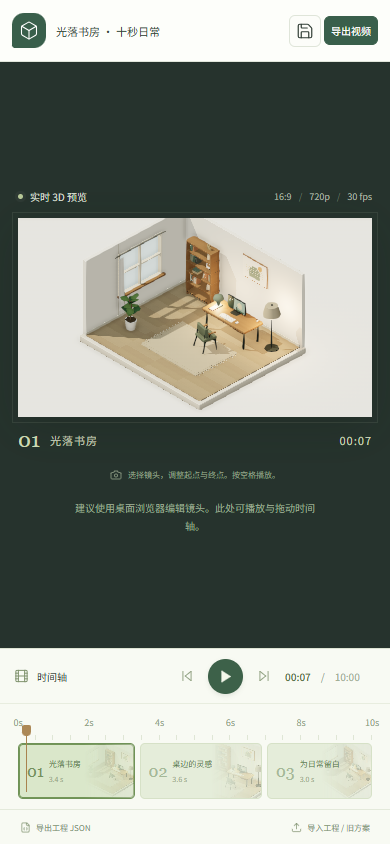
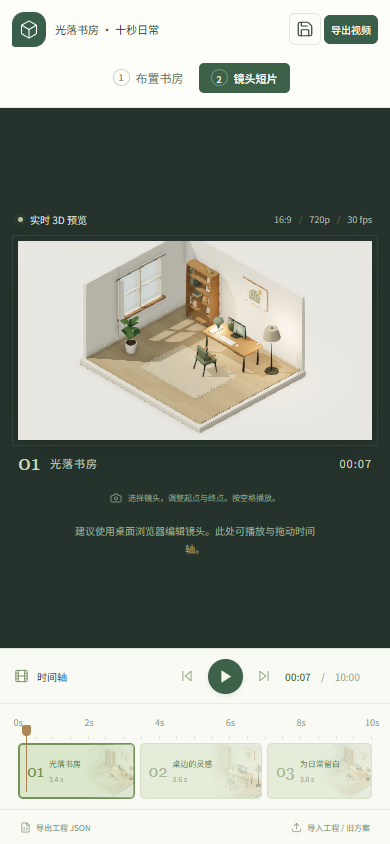
fix: make room and film navigation visible and save before returning

Changed region(s): [[0.0308, 0.2156, 0.9538, 0.5545], [0.0, 0.0, 1.0, 0.154], [0.1846, 0.5545, 0.8, 0.6777]]

diff --git a/tests/film.spec.ts b/tests/film.spec.ts
@@ -67,7 +67,7 @@ test('v1 迁移、非法工程保护、工程内房间编辑及旧存档隔离',
   await page.locator('#film-save').click();const p=await getProject(page),h=await history(page),stored=await page.evaluate(()=>localStorage.getItem('ideal-study.film.v2'));
   const invalid=['bad json',JSON.stringify({...p,version:99}),JSON.stringify({...p,film:{...p.film,shots:[]}}),JSON.stringify({...p,film:{...p.film,shots:p.film.shots.map((s:any,i:number)=>i===0?{...s,duration:0}:s)}}),JSON.stringify({...p,film:{...p.film,shots:p.film.shots.map((s:any,i:number)=>i===0?{...s,target:[0,99,0]}:s)}}),JSON.stringify({...p,film:{...p.film,shots:p.film.shots.map((s:any,i:number)=>i===0?{...s,start:{...s.start,azimuth:-180}}:s)}})];
   for(const data of invalid){await page.locator('#film-file').setInputFiles({name:'invalid.json',mimeType:'application/json',buffer:Buffer.from(data)});await expect(page.locator('#film-toast')).toHaveClass(/error/);expect(await getProject(page)).toEqual(p);expect(await history(page)).toEqual(h);expect(await page.evaluate(()=>localStorage.getItem('ideal-study.film.v2'))).toBe(stored);}
-  await page.getByRole('button',{name:'保存并布置房间',exact:true}).click();await expect(page.locator('html')).toHaveAttribute('data-ready','true');await page.getByRole('combobox',{name:'切换当前物件'}).selectOption('desk-1');await page.getByRole('button',{name:'材质：自然橡木',exact:true}).click();await page.getByRole('button',{name:'保存方案',exact:true}).click();await page.getByRole('link',{name:'返回短片工作台'}).click();await expect(page.locator('html')).toHaveAttribute('data-ready','true');expect((await getProject(page)).scene.objects.find((o:any)=>o.id==='desk-1').material).toBe('oak');expect(await page.evaluate(()=>localStorage.getItem('ideal-study.plan.v1'))).toBe(oldStorage);
+  await page.getByRole('button',{name:'保存并布置房间',exact:true}).click();await expect(page.locator('html')).toHaveAttribute('data-ready','true');await page.getByRole('combobox',{name:'切换当前物件'}).selectOption('desk-1');await page.getByRole('button',{name:'材质：自然橡木',exact:true}).click();await page.getByRole('button',{name:'保存方案',exact:true}).click();await page.locator('#workspace-film').click();await expect(page.locator('html')).toHaveAttribute('data-ready','true');expect((await getProject(page)).scene.objects.find((o:any)=>o.id==='desk-1').material).toBe('oak');expect(await page.evaluate(()=>localStorage.getItem('ideal-study.plan.v1'))).toBe(oldStorage);
   await page.locator('#film-file').setInputFiles('tests/fixtures/legacy-v1.json');expect((await getProject(page)).scene).toEqual(legacy);await expect(page.locator('#film-toast')).toContainText('迁移');
 });
 
@@ -81,6 +81,14 @@ test('视频取消恢复、无编码降级、低动态和窄屏预览',async({pa
 test('无 WebGL 时仍能保存和导出工程，存储失败给出错误',async({page})=>{
   await page.addInitScript(()=>{const original=HTMLCanvasElement.prototype.getContext;HTMLCanvasElement.prototype.getContext=function(type:string,...args:any[]):any{if(type.includes('webgl'))return null;return original.apply(this,[type,...args] as any);};});await page.goto('./');await expect(page.locator('html')).toHaveAttribute('data-ready','error');await expect(page.locator('#film-loading')).toContainText('暂时无法打开');await expect(page.locator('#film-play')).toBeDisabled();const d=page.waitForEvent('download');await page.locator('#film-json').click();expect((await d).suggestedFilename()).toMatch(/\.json$/);await page.locator('#film-save').click();await expect(page.locator('#film-save-state')).toHaveText('已保存到本地');
   await page.evaluate(()=>{Storage.prototype.setItem=function(){throw new DOMException('Full','QuotaExceededError');};});await page.locator('#film-save').click();await expect(page.locator('#film-toast')).toContainText('本地保存失败');
+});
+
+test('顶部工作区入口可见，保存房间并返回同一短片，失败时留在当前页',async({page})=>{
+  await ready(page);const shots=(await getProject(page)).film.shots;
+  for(const viewport of [{width:1440,height:900},{width:1280,height:800}]){await page.setViewportSize(viewport);await expect(page.locator('.workspace-nav [aria-current="page"]')).toContainText('镜头短片');const b=await page.locator('#workspace-room').boundingBox();expect(b!.y+b!.height).toBeLessThan(76);await page.locator('#workspace-room').click();await expect(page.locator('html')).toHaveAttribute('data-ready','true');await expect(page.locator('.workspace-nav [aria-current="page"]')).toContainText('布置书房');await expect(page.locator('#workspace-film')).toBeVisible();const r=await page.locator('#workspace-film').boundingBox();expect(r!.x+r!.width).toBeLessThan(viewport.width);expect(r!.y+r!.height).toBeLessThan(76);
+    await page.getByRole('combobox',{name:'切换当前物件'}).selectOption('desk-1');await page.getByRole('button',{name:'材质：自然橡木',exact:true}).click();if(viewport.width===1280)await shot(page,'06-room-return-1280x800.png');await page.locator('#workspace-film').click();await expect(page.locator('html')).toHaveAttribute('data-ready','true');expect((await getProject(page)).film.shots).toEqual(shots);expect((await getProject(page)).scene.objects.find((o:any)=>o.id==='desk-1').material).toBe('oak');}
+  await page.locator('#workspace-room').click();await expect(page.locator('html')).toHaveAttribute('data-ready','true');await page.evaluate(()=>{(window as any).__originalSetItem=Storage.prototype.setItem;Storage.prototype.setItem=()=>{throw new DOMException('Full','QuotaExceededError');};});await page.locator('#workspace-film').click();await expect(page).toHaveURL(/workspace=room/);await expect(page.locator('#toast')).toContainText('本地保存失败');await page.evaluate(()=>{Storage.prototype.setItem=(window as any).__originalSetItem;});await page.locator('#workspace-film').click();await expect(page).toHaveURL(/workspace=film/);await expect(page.locator('html')).toHaveAttribute('data-ready','true');
+  await page.setViewportSize({width:390,height:844});await expect(page.locator('#workspace-room')).toBeVisible();expect(await page.evaluate(()=>document.documentElement.scrollWidth<=innerWidth)).toBe(true);
 });
 
 test('默认自动播放、性能测量与浏览器支持的 WebM 格式实际编码回放',async({page,browser})=>{

diff --git a/src/room-editor.ts b/src/room-editor.ts
@@ -1,4 +1,5 @@
 import './style.css';
+import { workspaceNav } from './workspace-nav';
 import { createIcons, Box, ChevronDown, ArrowUpRight, Undo2, Redo2, Download, Save, MousePointer2, Orbit, ZoomIn, ZoomOut, RotateCcw, Move, RotateCw, Trash2, X, Sun, Sunset, Moon, Check, Plus, SlidersHorizontal, Layers3, Grid2X2, Maximize, Focus, Upload, Image, FileJson, ArrowLeft, Lightbulb, LockKeyhole, Info, Command, CheckCheck, Leaf, PanelLeftClose, Table2, Armchair, Monitor, LibraryBig, LampDesk, LampFloor, Sprout, RectangleHorizontal, Pencil } from 'lucide';
 import { CATALOG, MATERIALS, CAMERA_LIMITS, displayName, clone, initialPlan, createItem, parsePlan, updateItem, type Plan, type Kind, type Mood } from './model';
 import { StudyScene } from './scene';
@@ -22,7 +23,8 @@ function signature(p:Plan){return JSON.stringify({...p,selectedId:null});}
 
 $('#app').innerHTML=`
   <header class="topbar">
-    <a class="brand" href="?workspace=film" aria-label="返回短片工作台"><span class="brand-mark">${icon('Box')}</span><span>理想书房<small>返回短片工作台 ↗</small></span></a>
+    <div class="brand"><span class="brand-mark">${icon('Box')}</span><span>理想书房<small>${filmRoom?'短片工程 · 房间布置':'独立书房方案'}</small></span></div>
+    ${workspaceNav('room',filmRoom)}
     <div class="project"><span class="project-tag">我的空间</span><span class="slash">/</span><input id="plan-name" aria-label="方案名称" maxlength="48" value="${escapeHTML(plan.name)}"/><span class="name-edit">${icon('SlidersHorizontal')}</span><span id="save-state" class="save-state"></span></div>
     <nav class="top-actions" aria-label="方案操作"><button class="icon-btn" id="undo" title="撤销 Ctrl+Z" aria-label="撤销">${icon('Undo2')}</button><button class="icon-btn" id="redo" title="重做 Ctrl+Shift+Z" aria-label="重做">${icon('Redo2')}</button><span class="divider"></span><button class="button save-btn" id="save">${icon('Save')}<span>保存方案</span></button><button class="button primary" id="export">${icon('Download')}<span>导出</span>${icon('ChevronDown')}</button></nav>
   </header>
@@ -95,11 +97,12 @@ function rotate(delta:number){const o=current();if(o)mutate(()=>updateItem(plan,
 function remove(){const o=current();if(!o)return;mutate(()=>{plan.objects=plan.objects.filter(item=>item.id!==o.id&&item.parentId!==o.id);plan.selectedId=null;});toast(`已移除${CATALOG[o.kind].name}，可撤销恢复`);}
 function undo(){finish();if(!past.length)return;future.push(clone(plan));plan=past.pop()!;scene?.applyCamera(plan.camera);$<HTMLInputElement>('#plan-name').value=plan.name;refresh();toast('已撤销上一步');}
 function redo(){finish();if(!future.length)return;past.push(clone(plan));plan=future.pop()!;scene?.applyCamera(plan.camera);$<HTMLInputElement>('#plan-name').value=plan.name;refresh();toast('已重做');}
-function save(){finish();if(scene)plan.camera=scene.getCamera();try{if(filmProject){filmProject.scene=clone(plan);storeFilmProject(filmProject);}else localStorage.setItem(STORAGE,JSON.stringify({plan,savedAt:new Date().toISOString()}));savedSignature=signature(plan);saveLabel='已保存到本地';refresh(false);toast(filmProject?'房间已保存到短片工程，可返回工作台继续。':'方案已保存到当前浏览器，刷新后可恢复');}catch{toast('本地保存失败，浏览器存储不可用或已满。请导出 JSON 备份。',true);}}
+function save(){finish();if(scene)plan.camera=scene.getCamera();try{if(filmProject){filmProject.scene=clone(plan);storeFilmProject(filmProject);}else localStorage.setItem(STORAGE,JSON.stringify({plan,savedAt:new Date().toISOString()}));savedSignature=signature(plan);saveLabel='已保存到本地';refresh(false);toast(filmProject?'房间已保存到短片工程，可返回工作台继续。':'方案已保存到当前浏览器，刷新后可恢复');return true;}catch{toast('本地保存失败，浏览器存储不可用或已满。请导出 JSON 备份。',true);return false;}}
 function download(blob:Blob,extension:string){const url=URL.createObjectURL(blob),a=document.createElement('a');a.href=url;a.download=(plan.name.replace(/[\\/:*?"<>|]/g,'-')||'理想书房')+'.'+extension;a.click();window.setTimeout(()=>URL.revokeObjectURL(url),10000);}
 function updateCameraUI(){if(!scene)return;const view=scene.getView();document.querySelectorAll<HTMLElement>('[data-view]').forEach(b=>{const active=b.dataset.view===view;b.classList.toggle('active',active);b.setAttribute('aria-pressed',String(active));});$('#zoom-in').toggleAttribute('disabled',scene.camera.zoom>=CAMERA_LIMITS.maxZoom);$('#zoom-out').toggleAttribute('disabled',scene.camera.zoom<=CAMERA_LIMITS.minZoom);}
 function setMode(mode:'edit'|'orbit'){scene?.setMode(mode);$('#edit-mode').setAttribute('aria-pressed',String(mode==='edit'));$('#orbit-mode').setAttribute('aria-pressed',String(mode==='orbit'));$('#edit-mode').classList.toggle('active',mode==='edit');$('#orbit-mode').classList.toggle('active',mode==='orbit');$('#stage-hint').innerHTML=mode==='edit'?`${icon('MousePointer2')}点击选择 · 拖动物件移动<span>右键拖动观察 · 滚轮缩放</span>`:`${icon('Orbit')}拖动旋转观察 · 滚轮缩放<span>切回「布置」即可编辑物件</span>`;icons();}
 $('#undo').onclick=undo;$('#redo').onclick=redo;$('#save').onclick=save;
+$('#workspace-film').onclick=()=>{if(save())location.href='?workspace=film';};
 $('#edit-mode').onclick=()=>setMode('edit');$('#orbit-mode').onclick=()=>setMode('orbit');
 $('#zoom-in').onclick=()=>scene?.zoom(.15);$('#zoom-out').onclick=()=>scene?.zoom(-.15);
 $('#reset-view').onclick=()=>{scene?.view('default');updateCameraUI();};

diff --git a/src/studio.ts b/src/studio.ts
@@ -1,5 +1,6 @@
 import './style.css';
 import './studio.css';
+import { workspaceNav } from './workspace-nav';
 import { createIcons, Box, Film, Play, Pause, SkipBack, SkipForward, Plus, ArrowUp, ArrowDown, Save, Download, Undo2, Redo2, Upload, FileJson, X, Check, Info, Camera, Focus, Move, Trash2, SlidersHorizontal, ArrowUpRight, CircleHelp, LockKeyhole, Image, CheckCheck } from 'lucide';
 import { clone } from './model';
 import { StudyScene } from './scene';
@@ -26,6 +27,7 @@ document.body.classList.add('film-app');
 $('#app').innerHTML = `
 <header class="film-header">
   <a class="brand film-brand" href="?workspace=film"><span class="brand-mark">${icon('Box')}</span><span>理想书房<small>THE CONSIDERED SPACE</small></span></a>
+  ${workspaceNav('film')}
   <div class="film-project"><span class="film-project-tag">短片工程</span><input id="film-name" aria-label="工程名称" maxlength="48" value="${esc(project.name)}"/><span id="film-save-state"></span></div>
   <div class="film-actions"><button id="film-undo" class="icon-btn" aria-label="撤销" title="撤销 Ctrl+Z">${icon('Undo2')}</button><button id="film-redo" class="icon-btn" aria-label="重做" title="重做 Ctrl+Shift+Z">${icon('Redo2')}</button><span class="divider"></span><button id="film-save" class="button">${icon('Save')}<span>保存工程</span></button><button id="film-export" class="button primary">${icon('Download')}导出视频</button></div>
 </header>
@@ -108,6 +110,7 @@ $('#shot-list').onclick = $('#timeline-clips').onclick = e => { const button = (
 $('#shot-add').onclick = () => { if (project.film.shots.length >= 3) return; mutate(() => { const shot = clone(selected()); shot.id = crypto.randomUUID(); shot.name = '新的观察'; project.film.shots.push(shot); project.selectedShotId = shot.id; }); };
 $('#film-undo').onclick = () => undo(); $('#film-redo').onclick = () => undo(true); $('#film-save').onclick = save;
 $('#edit-room').onclick = () => { if (save()) location.href = '?workspace=room&project=film'; };
+$('#workspace-room').onclick = $('#edit-room').onclick;
 $<HTMLInputElement>('#film-name').onchange = e => { const name = (e.target as HTMLInputElement).value.trim(); if (!name) { (e.target as HTMLInputElement).value = project.name; toast('请为工程取个名字。', true); return; } mutate(() => project.name = name); };
 $('#film-json').onclick = () => { pause(); finish(); download(new Blob([JSON.stringify(project, null, 2)], { type: 'application/json' }), 'json'); toast('v2 工程已交给浏览器下载，包含房间和全部镜头。'); };
 $('#film-import').onclick = () => { pause(); $<HTMLInputElement>('#film-file').click(); };

diff --git a/src/workspace-nav.css b/src/workspace-nav.css
@@ -1,0 +1,11 @@
+.workspace-nav{display:flex;align-items:center;gap:3px;padding:4px;border:1px solid #dce5d4;border-radius:8px;background:#f0f4e9;flex-shrink:0;white-space:nowrap}
+.workspace-nav>button,.workspace-nav>span{display:flex;align-items:center;justify-content:center;gap:6px;padding:6px 9px;border-radius:5px;font-size:11px;line-height:20px;color:#6d805f;font-weight:500}
+.workspace-nav b{display:grid;place-items:center;width:17px;height:17px;border-radius:50%;font-size:9px;font-weight:500;border:1px solid #c9d6bc;color:#839571}
+.workspace-nav>[aria-current=page]{background:#3d6048;color:#fff}.workspace-nav>[aria-current=page] b{border-color:#75907a;color:#eff6e8}.workspace-nav>button:hover{background:#fffef7;color:#365a3d}
+.topbar:has(.workspace-nav),.film-header:has(.workspace-nav){gap:16px}
+.topbar:has(.workspace-nav) .project,.film-header:has(.workspace-nav) .film-project{min-width:0;gap:10px}
+.topbar:has(.workspace-nav) #plan-name,.film-header:has(.workspace-nav) #film-name{min-width:0;flex:1;width:100%}
+.topbar:has(.workspace-nav) .project-tag,.topbar:has(.workspace-nav) .slash,.film-header:has(.workspace-nav) .film-project-tag{display:none}
+@media(max-width:1320px){.topbar:has(.workspace-nav) .save-state,.film-header:has(.workspace-nav) #film-save-state{display:none}.workspace-nav>button,.workspace-nav>span{padding:5px 7px}}
+@media(max-width:1050px){.topbar:has(.workspace-nav) .brand,.film-header:has(.workspace-nav) .brand{min-width:0}.topbar:has(.workspace-nav) .brand>span:last-child,.film-header:has(.workspace-nav) .brand>span:last-child{display:none}}
+@media(max-width:760px){.topbar:has(.workspace-nav),.film-header:has(.workspace-nav){height:108px;flex-wrap:wrap;gap:0 9px;padding-top:5px;padding-bottom:5px}.workspace-nav{order:5;width:100%;justify-content:center;background:transparent;border:0;padding:0;height:36px}.workspace-nav>button,.workspace-nav>span{padding:5px 12px}.topbar:has(.workspace-nav)+.workspace{height:calc(100dvh - 139px)}.film-header:has(.workspace-nav)+.film-layout{height:calc(100dvh - 108px)}.topbar:has(.workspace-nav)+.workspace .library{top:108px}}

diff --git a/src/workspace-nav.ts b/src/workspace-nav.ts
@@ -1,0 +1,8 @@
+import './workspace-nav.css';
+
+export function workspaceNav(active: 'room' | 'film', linked = true) {
+  return `<nav class="workspace-nav" aria-label="工作区切换">
+    ${active === 'room' ? '<span aria-current="page"><b>1</b>布置书房</span>' : '<button id="workspace-room" title="保存当前工程并布置书房"><b>1</b>布置书房</button>'}
+    ${active === 'film' ? '<span aria-current="page"><b>2</b>镜头短片</span>' : `<button id="workspace-film" title="保存房间后进入短片工作台"><b>2</b>${linked ? '返回短片工作台' : '打开短片工作台'}</button>`}
+  </nav>`;
+}

diff --git a/docs/FILM-WORKBENCH.md b/docs/FILM-WORKBENCH.md
@@ -2,6 +2,14 @@
 
 本次在 `codex/film-workbench` 独立分支完成，基线为原版 `790c0ea`，功能提交为 `1d1db25`。原 main / GitHub Pages 站点保持原空间布置器。本分支可以按 [README](../README.md) 启动，默认进入新工作台。
 
+## 入口修复补充
+
+用户反馈找不到返回入口。实际检查发现它原先藏在书房页品牌下方的 7 px 小字中，且用户当时停留在短片页。现在两个工作区顶部都有明确导航：短片页显示「1 布置书房」和当前的「2 镜头短片」；书房页显示当前的「1 布置书房」和完整的「2 返回短片工作台」按钮。返回时先保存当前房间到同一短片工程；保存失败时保持当前页和数据。独立旧方案入口使用「打开短片工作台」文案，避免把独立方案误称为当前短片里的房间。
+
+在 1440×900、1280×800 实际点击顶部导航，修改书桌材质并返回，确认镜头数组完整保留、房间更新。模拟浏览器保存失败后点击返回，验证不导航且显示错误。390×844 检查导航可见、页面无横向溢出。本次本地生产构建 **17/17 通过**，记录见 [导航修复验收](film-evidence/navigation-acceptance.json)。
+
+截图 01、02、05 更新为新导航，补充截图 06；先前已验证的视频原件和独立回放证据保留，下文视频参数仍对应原交付文件。
+
 ## 相对原版新增的能力
 
 | 原版能力 | 此次增量 |
@@ -24,7 +32,7 @@
 
 段内先短暂停留，再通过五次平滑曲线移动，结尾停住；段间顺序切镜。不是随机绕场。正交相机沿固定 12 m 半径观察房间正面，起终机位都受到水平角、俯角和景别范围约束。
 
-最终保留以下 **五张实际运行截图**。前两张验证 1440×900 和 1280×800：时间轴、属性排序按钮与返回家具编辑入口均可见；画框保持 16:9；中段和尾段仍有明确主体。默认、中近景和较高尾段未看到明显穿墙、穿桌或悬空。原房间俯视与灯光检查同时由原编辑器回归覆盖。
+最终保留以下 **六张实际运行截图**。前两张验证 1440×900 和 1280×800：时间轴、属性排序按钮与返回家具编辑入口均可见；画框保持 16:9；中段和尾段仍有明确主体。默认、中近景和较高尾段未看到明显穿墙、穿桌或悬空。原房间俯视与灯光检查同时由原编辑器回归覆盖。
 
 | 实际截图 | 检查内容 |
 |---|---|
@@ -33,6 +41,7 @@
 | [03 导出与回放弹窗](film-evidence/03-film-export-and-replay.png) | 实际生成文件、实际首帧与原生视频控件、真实尺寸/时长/大小 |
 | [04 下载文件独立打开](film-evidence/04-downloaded-video-opened.png) | 下载字节在独立播放器中打开，显示 8 秒附近的尾段画面 |
 | [05 窄屏 · 390×844](film-evidence/05-film-narrow-390x844.png) | 预览、播放、拖动时间轴与工程备份；明确提示桌面编辑 |
+| [06 返回短片工作台 · 1280×800](film-evidence/06-room-return-1280x800.png) | 顶部完整按钮、房间当前状态、修改书桌材质后可保存返回 |
 
 发现并修正：较矮窗口原本会压扁画幅，改为按可用高度保持 16:9；右侧排序区和左下房间入口曾超出可见区域，调整间距及镜头卡片高度，并加入按钮边界断言；重排/调整时长曾会因刷新播放头切换选中段，改为先重新定位选中段再提交历史；重新打开导出弹窗时清空上次进度，避免误解为本次结果。
 
@@ -107,6 +116,7 @@
 - 完整编辑目标是桌面；窄屏仅提供预览、播放、时间轴和保存/导出入口。没有实现完整手机属性编辑。
 - 浏览器必须支持 WebGL 2；视频还需安全上下文与实际可用的 WebCodecs 编码器。每次检测的是 1280×720、约 5 Mbps 的具体配置，优先 H.264，备用 VP9/VP8。浏览器/系统决定编码器是否存在，依赖库不保证所有平台都具备它；参见 [Mediabunny 官方编码检测说明](https://mediabunny.dev/guide/supported-formats-and-codecs#querying-codec-encodability)。没有编码器时仍可备份 JSON，不能导出视频。
 - 本机 Chrome 三种格式都已实际验证。Safari、Firefox、实体手机、系统原生播放器和其它浏览器版本 **未执行验证**；不能把功能检测等同于全平台测试。
+- 首次 GitHub Actions Chromium / SwiftShader 验收返回 **13 通过、3 失败**：靠近末尾点击暂停时发生时间竞争、生成期间取消点击超过 12 秒，以及 VP9 编码 360 秒后完成到 249/300 帧而超时。这些云端慢速环境问题尚未修复；本轮导航反馈的本地 17/17 不替代云端结果。详细运行链接和状态见 `film-evidence/github.json`。
 - 当前为正交镜头、统一目标点、段间切镜；固定 720p / 30 fps / 无音轨，单段 1–10 秒、最多 3 段。没有透视摄影、景深、声音轨道、多轨剪辑或自定义分辨率。
 - 机位被限制在房间正面安全区域，防止穿入家具；用户把目标移到边角或重新大幅布置家具后，仍需自行预览构图。没有自动追踪或自动重新构图。
 - 导出在内存中进行，一次一个文件；生成时模态锁定编辑。长片上限是 30 秒，本次实际完整导出验证覆盖 10 秒及 10.2 秒，没有对 30 秒和满 40 家具的组合做压力测试。

diff --git a/README.md b/README.md
@@ -22,7 +22,7 @@ npm run dev
 
 打开 **http://127.0.0.1:5173/**。端口固定且不自动跳号；如端口被占用，先停止已有的同端口服务。
 
-默认入口是短片工作台；`/?workspace=room` 是原 v1 空间布置器。工作台左下「保存并布置房间」会打开当前短片里的书房，保存后点击左上「返回短片工作台」继续拍摄。
+默认入口是短片工作台；`/?workspace=room` 是原 v1 空间布置器。两页顶部都有工作区导航：短片页点击「1 布置书房」，即可编辑当前短片的房间；书房页点击「2 返回短片工作台」，会先保存房间，再返回原镜头工程。绿色标签表示当前位置。保存失败会留在原页提示，不丢弃改动。原左下「保存并布置房间」入口也保留。
 
 视频导出需要安全上下文（HTTPS 或 localhost/127.0.0.1）及浏览器实际支持的 WebCodecs 编码。应用会检测 H.264 / VP9 / VP8，只提供支持的格式。导出固定为无音轨 1280×720、30 fps，逐帧生成，不要求电脑能实时跑到 30 fps。
 
@@ -39,11 +39,11 @@ v2 工程包含原 scene v1 和镜头数据，保存键为 `ideal-study.film.v2`
 
 ## 本分支验收
 
-本地生产构建 **16/16** 真实浏览器用例通过，其中短片 6 项、原编辑器 10 项。覆盖第二镜头修改、保存刷新、工程往返、三种格式编码、文件回放、预览/视频画面比较、旧方案迁移、错误与取消状态。环境、性能、五张实际截图及视频检测报告见 [短片交付记录](docs/FILM-WORKBENCH.md)。
+入口修复后，本地生产构建 **17/17** 真实浏览器用例通过，其中短片 7 项、原编辑器 10 项。覆盖顶部工作区切换、保存返回、第二镜头修改、保存刷新、工程往返、三种格式编码、文件回放、预览/视频画面比较、旧方案迁移、错误与取消状态。环境、性能、六张实际截图及视频检测报告见 [短片交付记录](docs/FILM-WORKBENCH.md)。GitHub 首次 Chromium 验收为 13/16，三个慢速环境下的问题另行记录，未冒充全平台通过。
 
 ```bash
-npm test          # 全部 16 项；自动构建、启动 4173 端口并测试
-npm run test:film # 6 项短片验收
+npm test          # 全部 17 项；自动构建、启动 4173 端口并测试
+npm run test:film # 7 项短片验收
 npm run test:room # 10 项原编辑器回归
 ```
 

diff --git a/docs/FILM-CONTRACT.md b/docs/FILM-CONTRACT.md
@@ -25,6 +25,16 @@
 
 ## 阶段终审
 
+### 入口修复（用户反馈：找不到返回短片工作台）
+
+授权范围为同一工程两工作区的可发现导航与保存返回；不增加其它产品功能。基线在 1280×800 实际复现：返回入口藏在品牌下方 7 px 小字中，而用户当前停留在短片页。
+
+| 修复范围 | 状态 | 下一步 |
+|---|---|---|
+| 两页顶部明确标记当前位置和切换入口 | pass | 双桌面尺寸导航可见，当前工作区高亮；窄屏也可切换 |
+| 编辑房间后保存并返回同一短片 | pass | 实际按钮修改材质并返回；镜头保留；存储失败留页且报错 |
+| 证据与记录 | pass | 本地 17/17；更新截图 01/02/05，补充截图 06；此前云端 13/16 单独如实记录 |
+
 - 效果阶段：复用场景建立全景、桌边近景和较高收束三段；真实浏览器检查双桌面布局，修正画幅与面板可见性。
 - 操作阶段：完成镜头修改、历史、工程保存恢复、原编辑器联动和视频生成/回放。
 - 修正阶段：主流程通过后只修正验收问题并完成原版回归、编码兼容与子路径检查。没有扩展账号、云同步、音乐或其它产品功能。
